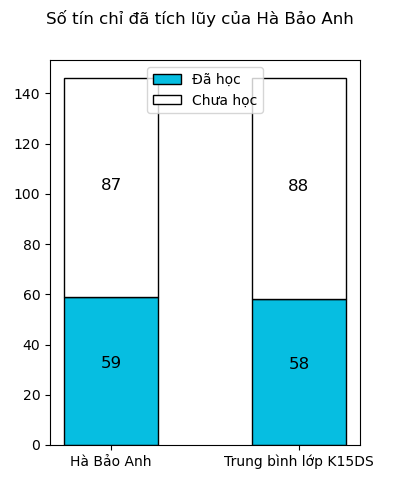
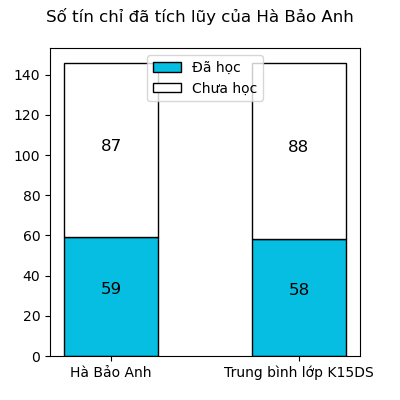
On requirement.txt

diff --git a/assets/style.css b/assets/style.css
@@ -1,6 +1,6 @@
 #output_test {
     overflow-y: auto;
-    height: 502px;
+    height: 355px;
 }
 
 #output_test th {
@@ -12,4 +12,52 @@
 
 #output_test table {
     position: relative;
+}
+
+body {
+    background-color: rgb(245, 245, 245);
+}
+
+.graph {
+    /* border: 1px solid black; */
+    padding: 5px;
+    background-color: white;
+    border-radius: 7px;
+    transition: 0.4s;
+    border: 2px solid white;
+}
+
+.graph:hover {
+    transition: 0.4s;
+    border: 2px solid rgb(151, 151, 151);
+    /* box-shadow: 2px 2px 2px 0 rgb(109, 109, 109); */
+}
+
+.graph-boxplot {
+    margin-right: 5px;
+}
+
+.graph-bar-xeploai {
+    margin-left: 5px;
+}
+
+#second-layer {
+    margin-top: 10px;
+}
+
+.show-table {
+    height: 467px;
+}
+
+.footer {
+    margin-top: 10px;
+    width: 100%;
+    height: 50px;
+    background-color: rgb(182, 182, 182);
+    text-align: center;
+}
+
+.footer p {
+    font-weight: bold;
+    font-family:'Segoe UI', Tahoma, Geneva, Verdana, sans-serif;
 }

diff --git a/app.py b/app.py
@@ -84,17 +84,20 @@ env = 'production'
 
 server = Flask(__name__)
 
-if (env == 'dev'):
-    server.config['SQLALCHEMY_DATABASE_URI'] = 'sqlite:///vis.db'
-    server.debug = True
-else:
-    server.config['SQLALCHEMY_DATABASE_URI'] = 'postgres://nvajiwnacldrjc:8feb48b666b3b52f969d07231dc98f16fbb8eb40330b6471c672b2cfb4cdc823@ec2-3-213-85-90.compute-1.amazonaws.com:5432/d85fqrf0s08b3d'
-    server.debug = False    
-server.config['SQLALCHEMY_TRACK_MODIFICATIONS'] = False
-
 db = SQLAlchemy(server)
 
 app = dash.Dash(server=server, external_scripts=external_scripts, external_stylesheets=external_stylesheets)
+
+
+if (env == 'dev'):
+    server.config['SQLALCHEMY_DATABASE_URI'] = 'sqlite:///test_db/vis.db'
+    server.debug = True
+    app.debug = True
+else:
+    server.config['SQLALCHEMY_DATABASE_URI'] = 'postgres://nvajiwnacldrjc:8feb48b666b3b52f969d07231dc98f16fbb8eb40330b6471c672b2cfb4cdc823@ec2-3-213-85-90.compute-1.amazonaws.com:5432/d85fqrf0s08b3d'
+    server.debug = False
+    app.debug = False    
+server.config['SQLALCHEMY_TRACK_MODIFICATIONS'] = False
 
 subjects = list(df.columns[5:-6])
 classmate = list(df['Họ và tên'])
@@ -182,7 +185,7 @@ app.layout = html.Div([
                         [html.I(className='fas fa-question')],
                         id='boxplot_helper',
                         type='button',
-                        className='btn btn-primary dropdown-toggle',
+                        className='btn btn-primary dropdown-toggle btn-sm',
                         **{
                             'data-bs-toggle': 'dropdown',
                             'aria-expanded': 'false'
@@ -247,8 +250,8 @@ app.layout = html.Div([
             html.Div(style={'height': '5px'}),
             html.Div(
                 [
-                    dcc.Graph(id='boxplot'),
-                    dcc.Graph(id='bar_xeploai')
+                    html.Div(dcc.Graph(id='boxplot'), className='graph-1 graph-boxplot graph'),
+                    html.Div(dcc.Graph(id='bar_xeploai'), className='graph-1 graph-bar-xeploai graph')
                 ],
                 style={'display': 'flex'},
                 className='boxplot_class'
@@ -306,7 +309,7 @@ app.layout = html.Div([
                     html.Div(style={'height': '10px'}),
                     html.Div(id='output_test')
                 ],
-                className='show-table',
+                className='show-table graph',
                 style={'width': '40%'}
             ),
             html.Div(style={'width': '10px'}),
@@ -334,11 +337,18 @@ app.layout = html.Div([
                 ],
                 style={
                     'width': '410px', 
-                }
+                },
+                className='graph'
             )
         ],
         style={"display": "flex"},
-        id='list_sv'
+        id='second-layer'
+    ),
+    html.Div(
+        [
+            html.P(['Made by 3T Team and the respected teacher from IUH with ', html.I(className='fas fa-heart')]),
+        ],
+        className='footer graph'
     )
 ], className='container')
 
@@ -372,15 +382,20 @@ def generate_chart(name_dropdown):
         if (dropdown_chart.loc[i - 1, name_dropdown] == dropdown_chart.loc[i, name_dropdown]):
             dropdown_chart['Xếp thứ tự'][i] = dropdown_chart['Xếp thứ tự'][i - 1]
 
-    print(name_dropdown)
-
 #    Trực quan cái boxplot
     fig_boxplot = px.box(
         dropdown_chart,
         y=name_dropdown,
         hover_data={'Họ và tên': True, 'Xếp thứ tự': True},
+        points='all',
+        width=670,
+        height=350
+    )
+
+    fig_boxplot.update_layout(
         title='Tổng quát điểm, thứ tự sinh viên',
-        points='all'
+        xaxis_title=name_dropdown,
+        yaxis_title='Thang điểm',
     )
 
     # center the title
@@ -409,7 +424,9 @@ def generate_chart(name_dropdown):
         data_frame=data_score_df,
         x='Xếp loại',
         y='Số lượng',
-        title='Số lượng mỗi xếp loại'
+        title='Số lượng mỗi xếp loại',
+        width=600,
+        height=350
     )
 
     # center the title
@@ -511,7 +528,7 @@ def stacked_bar(input_name):
     width = 0.5
     ind = np.arange(2)
 
-    fig, ax = plt.subplots(figsize=(4, 5))
+    fig, ax = plt.subplots(figsize=(4, 4))
 
     bar1 = plt.bar(ind, foo, width, label='Đã học', edgecolor='black', color='#06BEE1')
     bar2 = plt.bar(ind, bar, width, bottom=foo, label='Chưa học', edgecolor='black', color='#FFFFFF')
